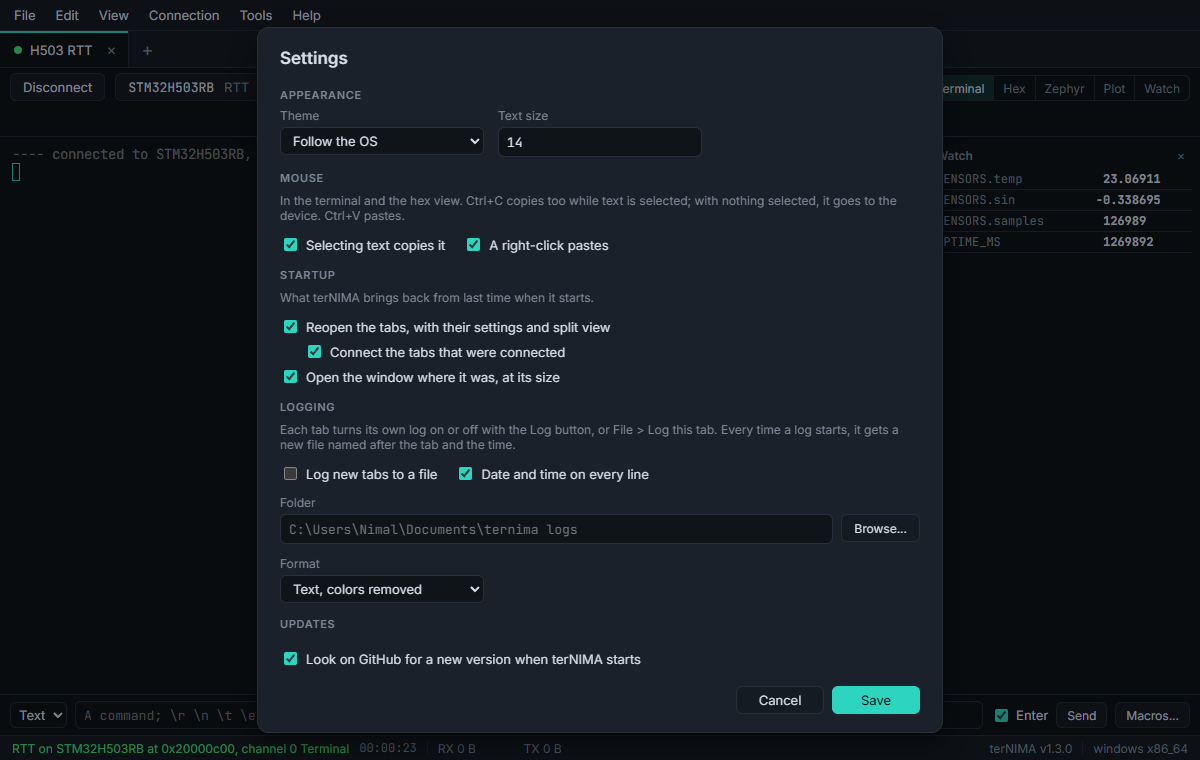
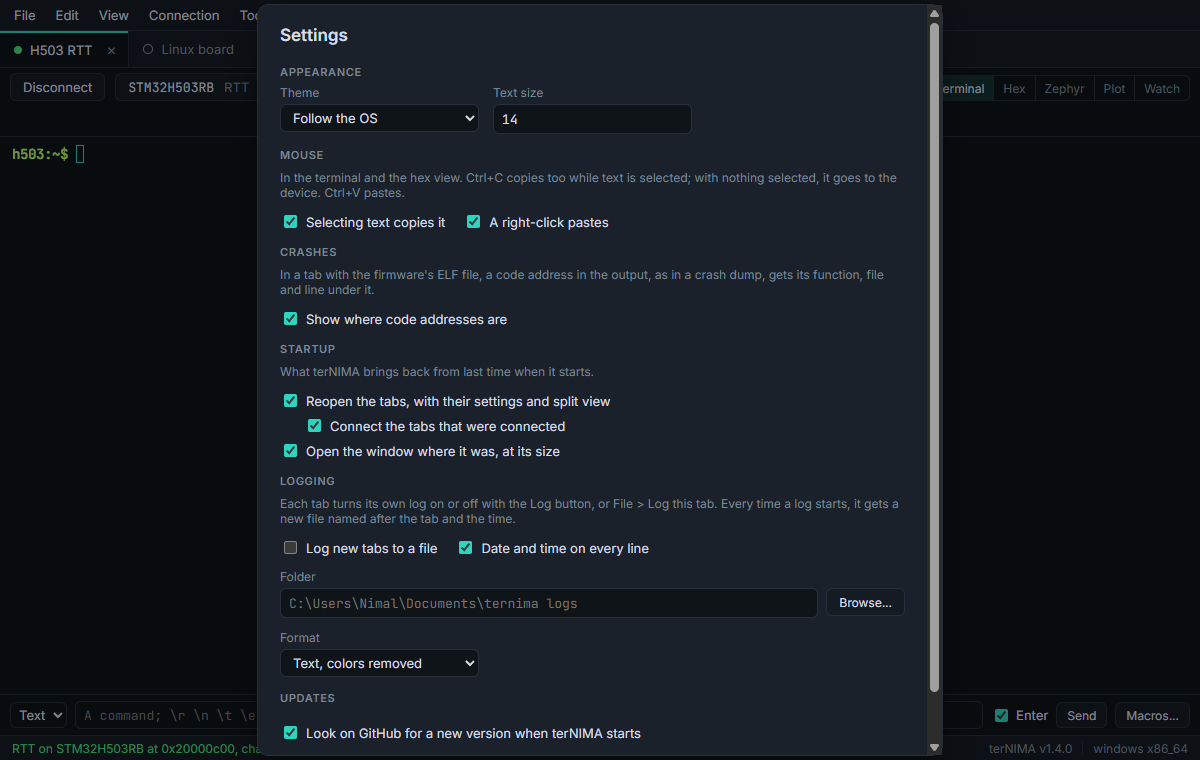
terNIMA 1.4.0 on the site: SSH and crash decoding
Both on its page, with a picture each and their own sections in its help, and
on the home page. The help's pictures of the + menu, the serial dialog and the
settings show what is new.

diff --git a/ternima/help/index.html b/ternima/help/index.html
@@ -3,14 +3,14 @@
 <head>
 <meta charset="utf-8">
 <meta name="viewport" content="width=device-width, initial-scale=1">
-<title>terNIMA help | Serial, RTT, SWO, Watch, Plot and Modbus, step by step</title>
-<meta name="description" content="How to use terNIMA: serial, RTT through a probe or a debugger&#x27;s server, SWO, TCP, the terminal, the hex view, Zephyr logs, live variables, the plot, Modbus, logs and recordings, with screenshots.">
+<title>terNIMA help | Serial, RTT, SWO, SSH, crash decoding, Watch, Plot and Modbus, step by step</title>
+<meta name="description" content="How to use terNIMA: serial, RTT through a probe or a debugger&#x27;s server, SWO, TCP, SSH, the terminal, the hex view, Zephyr logs, crash decoding, live variables, the plot, Modbus, logs and recordings, with screenshots.">
 <meta name="author" content="Nima Askari">
 <link rel="canonical" href="https://nimaltd.github.io/ternima/help/">
 <meta property="og:type" content="website">
 <meta property="og:url" content="https://nimaltd.github.io/ternima/help/">
 <meta property="og:title" content="terNIMA help | Serial, RTT, SWO, Watch, Plot and Modbus, step by step">
-<meta property="og:description" content="How to use terNIMA: serial, RTT through a probe or a debugger&#x27;s server, SWO, TCP, the terminal, the hex view, Zephyr logs, live variables, the plot, Modbus, logs and recordings, with screenshots.">
+<meta property="og:description" content="How to use terNIMA: serial, RTT through a probe or a debugger&#x27;s server, SWO, TCP, SSH, the terminal, the hex view, Zephyr logs, crash decoding, live variables, the plot, Modbus, logs and recordings, with screenshots.">
 <meta property="og:image" content="https://nimaltd.github.io/assets/ternima-logs.png">
 <meta name="twitter:card" content="summary_large_image">
 <meta name="theme-color" content="#071226">
@@ -92,9 +92,11 @@
         <li><a href="#server">RTT through a debugger's server</a></li>
         <li><a href="#swo">SWO through a debug probe</a></li>
         <li><a href="#tcp">TCP or Telnet</a></li>
+        <li><a href="#ssh">SSH</a></li>
         <li><a href="#terminal">The terminal</a></li>
         <li><a href="#hex">Hex view</a></li>
         <li><a href="#zephyr">Zephyr log</a></li>
+        <li><a href="#crash">Crash decoding</a></li>
         <li><a href="#watch">Watch: live variables</a></li>
         <li><a href="#plot">Plot</a></li>
         <li><a href="#modbus">Modbus</a></li>
@@ -115,8 +117,8 @@
       <section id="sessions">
         <h2>Opening a session</h2>
 
-<p>The <b>+</b> at the end of the tabs, or File &gt; New session, opens one of six kinds:</p>
-<figure><img src="/assets/help/ternima-new-session.png" width="1200" height="760" loading="lazy" decoding="async" alt="The menu under the + of the tab bar: Serial port, RTT through a debug probe, RTT through a debugger&#x27;s server, SWO through a debug probe, TCP or Telnet, and A recording, each with a line on what it is for"><figcaption>+ in the tab bar: the six kinds of session</figcaption></figure>
+<p>The <b>+</b> at the end of the tabs, or File &gt; New session, opens one of seven kinds:</p>
+<figure><img src="/assets/help/ternima-new-session.png" width="1200" height="760" loading="lazy" decoding="async" alt="The menu under the + of the tab bar: Serial port, RTT through a debug probe, RTT through a debugger&#x27;s server, SWO through a debug probe, TCP or Telnet, SSH, and A recording, each with a line on what it is for"><figcaption>+ in the tab bar: the six kinds of session</figcaption></figure>
 
 <ul>
 <li><b>Serial port</b>: a UART, a USB serial adapter, or a board's virtual COM port.</li>
@@ -124,6 +126,7 @@
 <li><b>RTT through a debugger's server</b>: while your IDE debugs, from J-Link's or OpenOCD's own RTT server.</li>
 <li><b>SWO through a debug probe</b>: ITM output on the chip's trace pin, such as printf.</li>
 <li><b>TCP or Telnet</b>: a device on the network, a serial bridge, or a shell.</li>
+<li><b>SSH</b>: a shell on a Linux board or a server, in a real terminal.</li>
 <li><b>A recording</b>: plays back what a tab recorded, with its timing.</li>
 </ul>
 <p>A tab you closed is under <b>Closed tabs</b> in the File menu, to open again as it was, connected if it was. A new serial session for a device seen before gets the settings its tab had, found by the device's USB serial number.</p>
@@ -134,6 +137,7 @@
 <figure><img src="/assets/help/ternima-serial-dialog.png" width="1200" height="760" loading="lazy" decoding="async" alt="The New serial session dialog: COM6, an ST-LINK&#x27;s virtual COM port, picked in the list, then 115200 baud, 8 data bits, no parity, 1 stop bit, no flow control, Enter sends CR, DTR and RTS on, and the tab&#x27;s name"><figcaption>A board's virtual COM port, and its settings</figcaption></figure>
 
 <p>Pick the port. The list shows each port's name, what it is and its USB ids, and follows ports being plugged in and out. Then its settings: any baud rate, 5 to 8 data bits, parity, stop bits and flow control, DTR and RTS, what <b>Enter</b> sends (CR, LF or CR LF), local echo for devices that do not echo, and whether LF alone starts a new line.</p>
+<p>The firmware's ELF file is optional. With it, the addresses of a crash get their function, file and line: see <a href="#crash">Crash decoding</a>.</p>
 <p>Unplug the board, and the tab waits for it; plug it back in, and it connects by itself, even on another COM number. DTR, RTS and Break in the toolbar, also in the Connection menu, work on the port as it runs, and Tools &gt; Send file sends a file, paced for the baud rate.</p>
       </section>
       <section id="rtt">
@@ -183,6 +187,25 @@
 
 <p>A TCP socket, plain bytes both ways, as from a serial to network bridge or a device's own socket; or a Telnet server, whose option talk terNIMA answers and keeps out of the terminal. Give the host and the port. The tab waits for the other end, and connects again when the connection is lost.</p>
       </section>
+      <section id="ssh">
+        <h2>SSH</h2>
+
+<figure><img src="/assets/help/ternima-ssh-dialog.png" width="1200" height="760" loading="lazy" decoding="async" alt="The New SSH session dialog: host board.local, port 22, user root, and logging in with a password asked each time and never saved"><figcaption>File &gt; New session &gt; SSH</figcaption></figure>
+
+<p>A shell on a Linux board or a server, in a real terminal: colors, <code>vim</code> and <code>htop</code> work, and the size follows the tab. Give the host, the port and the user, and how to log in:</p>
+<ul>
+<li><b>A key file</b>: OpenSSH's or PuTTY's. A passphrase on it is asked each time, and never saved.</li>
+<li><b>The SSH agent</b>: OpenSSH's, or Pageant on Windows.</li>
+<li><b>A password</b>: asked each time you connect, and never saved. A server that asks its own questions is answered the same way.</li>
+</ul>
+<figure><img src="/assets/help/ternima-ssh-trust.png" width="1200" height="760" loading="lazy" decoding="async" alt="The question Trust this server: the server has no key in known_hosts yet, with its key type and fingerprint, and the buttons Cancel and Trust and connect"><figcaption>The first time, the server's key is shown and asked about</figcaption></figure>
+
+<p>Check the fingerprint with <code>ssh-keygen -lf</code> on the server. A key you trust is kept in <code>known_hosts</code> in your <code>.ssh</code> folder, the file <code>ssh</code> itself uses. A key that changed is refused, with both fingerprints and the command that takes the old one out, for when you know why, as with a board flashed again.</p>
+<figure><img src="/assets/help/ternima-ssh.png" width="1200" height="760" loading="lazy" decoding="async" alt="An SSH tab with htop running in it, with its colors, its bars and its F key menu"><figcaption>htop in an SSH tab</figcaption></figure>
+
+<p>A connection that breaks connects again by itself, and <code>exit</code> ends the session. A login that fails is not tried again by itself, so that an account does not get locked. Log, record and replay, macros, sequences, find and split view work as on the other tabs. A recording keeps all that is typed in the shell, even a <code>sudo</code> password, but never the login itself.</p>
+<p>While a full screen program such as <code>vim</code> or <code>htop</code> runs, it gets the F keys, Alt with another key and Ctrl+V for itself, on every kind of tab. Back at the prompt, they are terNIMA's again.</p>
+      </section>
       <section id="terminal">
         <h2>The terminal</h2>
 
@@ -216,6 +239,22 @@
 <figure><img src="/assets/ternima-logs.png" width="1200" height="760" loading="lazy" decoding="async" alt="The Zephyr log view: log lines with their time, level and module, the warnings and errors highlighted, and a count of each level above them"><figcaption>Zephyr logs, by level and module</figcaption></figure>
 
 <p>View &gt; Zephyr log (<kbd>Ctrl+Shift+J</kbd>) lists every received line, with Zephyr's log lines read into time, level and module. The level chips and the module list show or hide lines, the search marks matches or keeps only them, Tools &gt; Highlight rules colors the lines that match, and bookmarks (<kbd>Ctrl+F2</kbd>, then <kbd>F2</kbd> and <kbd>Shift+F2</kbd>) mark lines to come back to.</p>
+      </section>
+      <section id="crash">
+        <h2>Crash decoding</h2>
+
+<p>When firmware crashes, it prints addresses. With the firmware's ELF file in the tab, terNIMA writes the function, the file and the line under each address that is in the code:</p>
+<figure><img src="/assets/help/ternima-crash.png" width="1200" height="760" loading="lazy" decoding="async" alt="A HardFault on an STM32H503RB over RTT: under the line with r14/lr, src/main.rs:237 in __cortex_m_rt_main, and under the faulting instruction address, src/asm.rs:76 in read_sensor"><figcaption>A HardFault: the LR and the PC decoded, the other values left alone</figcaption></figure>
+
+<p>It reads any line with an address written as <code>0x08001234</code>, as in a Zephyr fatal error, a HardFault handler's print or an ESP32 backtrace. On a line that speaks of the PC, the LR, a fault or a backtrace, <code>08001234</code> without the <code>0x</code> counts too. Only addresses inside the ELF file's functions count, so RAM addresses and other numbers stay as they are. A return address, as in the LR, gives the line of the call.</p>
+<ul>
+<li><b>Where the ELF file goes:</b> in the settings of a serial, RTT or SWO tab; for a TCP tab, in its Watch view. It needs no probe, and works on a plain serial port.</li>
+<li><b>Debug information:</b> a firmware built with it, as with <code>-g</code>, gives the file and the line. Without it you get the function, from the symbol table. A stripped file has neither, and the tab says so.</li>
+<li><b>The right file:</b> it must be the firmware that runs, or the addresses point somewhere else. A file built again is read again by itself.</li>
+<li><b>The Zephyr view</b> shows them at the end of the line. The hex view and log files keep only what the device sent.</li>
+<li><b>Settings &gt; Crashes</b> turns it off.</li>
+</ul>
+<figure><img src="/assets/help/ternima-crash-lines.png" width="1200" height="760" loading="lazy" decoding="async" alt="The Zephyr view of the same crash: the function, file and line at the end of the lines with the LR and the PC"><figcaption>The same crash in the Zephyr view</figcaption></figure>
       </section>
       <section id="watch">
         <h2>Watch: live variables</h2>
@@ -268,9 +307,9 @@
       <section id="settings">
         <h2>Settings and the keyboard</h2>
 
-<figure><img src="/assets/help/ternima-settings.png" width="1200" height="760" loading="lazy" decoding="async" alt="The Settings dialog: theme and text size, the mouse in the terminal, what terNIMA brings back at startup, logging with its folder and format, and the update check"><figcaption>File > Settings</figcaption></figure>
+<figure><img src="/assets/help/ternima-settings.png" width="1200" height="760" loading="lazy" decoding="async" alt="The Settings dialog: theme and text size, the mouse in the terminal, crash decoding, what terNIMA brings back at startup, logging with its folder and format, and the update check"><figcaption>File > Settings</figcaption></figure>
 
-<p>File &gt; Settings (<kbd>Ctrl+,</kbd>) has the theme and the text size, what the mouse does in the terminal, what terNIMA brings back when it starts, the log folder and format, and the update check.</p>
+<p>File &gt; Settings (<kbd>Ctrl+,</kbd>) has the theme and the text size, what the mouse does in the terminal, crash decoding, what terNIMA brings back when it starts, the log folder and format, and the update check.</p>
 <figure><img src="/assets/help/ternima-palette.png" width="1200" height="760" loading="lazy" decoding="async" alt="The command palette with watch typed: the Watch view and Watch beside the terminal"><figcaption>The command palette finds any command</figcaption></figure>
 
 <p>View &gt; Command palette (<kbd>Ctrl+Shift+P</kbd>) finds any command by part of its name. The keys:</p>
@@ -300,6 +339,8 @@
 <li><b>No RTT control block.</b> Is RTT on in the firmware, and has it started? Give the ELF file, or the control block's address. For firmware without RTT, turn <b>Read RTT</b> off and use Watch.</li>
 <li><b>A serial port is in use.</b> Another program has it open: close it, and terNIMA connects by itself.</li>
 <li><b>A variable is "not in the ELF".</b> The firmware was built anew: press <b>Reload</b>. Build it with debug information.</li>
+<li><b>A crash shows no function or line.</b> Is the ELF file in the tab the firmware that runs, and was it built with debug information? Is Settings &gt; Crashes on?</li>
+<li><b>SSH says a server's key changed.</b> After flashing a board this is expected: the message has the command that takes the old key out. Otherwise, find out why first.</li>
 <li><b>Anything else</b>: <a href="https://github.com/nimaltd/ternima/issues/new">ask, or report a bug on GitHub</a>.</li>
 </ul>
       </section>

diff --git a/ternima/index.html b/ternima/index.html
@@ -4,13 +4,13 @@
 <meta charset="utf-8">
 <meta name="viewport" content="width=device-width, initial-scale=1">
 <title>terNIMA | A serial, RTT, SWO and TCP terminal for embedded developers</title>
-<meta name="description" content="terNIMA: serial, RTT, SWO and TCP in one window on Windows, macOS and Linux, with Zephyr logs, live variables from the ELF, a plotter, a Modbus tester, and record and replay. Free and open source.">
+<meta name="description" content="terNIMA: serial, RTT, SWO, TCP and SSH in one window on Windows, macOS and Linux, with Zephyr logs, crash decoding and live variables from the ELF, a plotter, a Modbus tester, and record and replay. Free and open source.">
 <meta name="author" content="Nima Askari">
 <link rel="canonical" href="https://nimaltd.github.io/ternima/">
 <meta property="og:type" content="website">
 <meta property="og:url" content="https://nimaltd.github.io/ternima/">
 <meta property="og:title" content="terNIMA | A serial, RTT, SWO and TCP terminal for embedded developers">
-<meta property="og:description" content="terNIMA: serial, RTT, SWO and TCP in one window on Windows, macOS and Linux, with Zephyr logs, live variables from the ELF, a plotter, a Modbus tester, and record and replay. Free and open source.">
+<meta property="og:description" content="terNIMA: serial, RTT, SWO, TCP and SSH in one window on Windows, macOS and Linux, with Zephyr logs, crash decoding and live variables from the ELF, a plotter, a Modbus tester, and record and replay. Free and open source.">
 <meta property="og:image" content="https://nimaltd.github.io/assets/ternima-logs.png">
 <meta name="twitter:card" content="summary_large_image">
 <meta name="theme-color" content="#071226">
@@ -72,9 +72,9 @@
 <main id="main">
   <section class="hero wrap page-hero" id="top">
     <div class="hero-text">
-      <a class="news" href="https://github.com/nimaltd/ternima/blob/main/CHANGELOG.md"><b>New</b><span>terNIMA <span data-ternima="version">1.3.0</span>: what changed</span><svg class="ico"><use href="/assets/icons.svg?v=3#i-arrow"/></svg></a>
+      <a class="news" href="https://github.com/nimaltd/ternima/blob/main/CHANGELOG.md"><b>New</b><span>terNIMA <span data-ternima="version">1.4.0</span>: what changed</span><svg class="ico"><use href="/assets/icons.svg?v=3#i-arrow"/></svg></a>
       <h1>terNIMA, <span>a terminal for embedded developers.</span></h1>
-      <p class="lead">One window for everything your board says: serial and TCP, plus RTT and SWO straight from your debug probe, with no vendor software. Watch your firmware's variables change as it runs, plot them, and follow its Zephyr logs. Free and open source, on Windows, macOS and Linux.</p>
+      <p class="lead">One window for everything your board says: serial, TCP and SSH, plus RTT and SWO straight from your debug probe, with no vendor software. Watch your firmware's variables change as it runs, plot them, follow its Zephyr logs, and see the file and line of a crash. Free and open source, on Windows, macOS and Linux.</p>
       <div class="ctas">
         <a class="btn amber" href="#download"><svg class="ico"><use href="/assets/icons.svg?v=3#i-download"/></svg>Download</a>
         <a class="btn ghost" href="/ternima/help/"><svg class="ico"><use href="/assets/icons.svg?v=3#i-book"/></svg>Help</a>
@@ -89,6 +89,8 @@
       <figure class="shot" id="shots" aria-roledescription="carousel" aria-label="terNIMA, feature by feature">
         <div class="slides">
           <img class="slide on" src="/assets/ternima-logs.png" width="1200" height="760" loading="lazy" data-caption="Zephyr logs, by level and module, with highlights" alt="terNIMA's Lines view: Zephyr log lines, each with its time, level and module, the warnings and errors highlighted, and a count of each level above them">
+          <img class="slide" src="/assets/ternima-crash.png" width="1200" height="760" loading="lazy" data-caption="A real HardFault, with the function, file and line under each address" alt="An RTT tab on an STM32H503RB after a HardFault: under the lines with the LR and the PC, the function, file and line of each address">
+          <img class="slide" src="/assets/ternima-ssh.png" width="1200" height="760" loading="lazy" data-caption="SSH in a real terminal: htop on a Linux machine" alt="An SSH tab with htop running in it, with its colors, its bars and its F key menu">
           <img class="slide" src="/assets/ternima-rtt.png" width="1200" height="760" loading="lazy" data-caption="RTT through an ST-LINK, with no vendor software" alt="An RTT tab on an STM32H503RB through an ST-LINK: the firmware's shell, with help, colors and uptime typed into it">
           <img class="slide" src="/assets/ternima-watch.png" width="1200" height="760" loading="lazy" data-caption="Live variables beside the RTT shell, read as the chip runs" alt="An RTT tab on an STM32H503RB: the firmware's shell at the left, and at the right its variables, a temperature, a sine, a sample count and the uptime, read live through the probe">
           <img class="slide" src="/assets/ternima-sequences.png" width="1200" height="760" loading="lazy" data-caption="Macros, and sequences of them sent again and again" alt="The Macros dialog: three macros, Reboot, Version and Temperature, and a sequence, Soak test, that sends Temperature then Version every 2 seconds until it is stopped, with their buttons under the terminal">
@@ -107,10 +109,10 @@
 
       <div class="get" id="download">
         <div class="get-head">
-          <h3>Download <span data-ternima="version">1.3.0</span></h3>
+          <h3>Download <span data-ternima="version">1.4.0</span></h3>
           <span class="stars" data-repo="ternima"><svg class="ico"><use href="/assets/icons.svg?v=3#i-star"/></svg><span></span></span>
         </div>
-        <p>Released <time data-ternima="date" datetime="2026-10-31">31 October 2026</time>. Free, under the Apache License 2.0.</p>
+        <p>Released <time data-ternima="date" datetime="2026-11-01">1 November 2026</time>. Free, under the Apache License 2.0.</p>
         <ul class="os">
           <li data-os="windows">
             <div><b>Windows</b><span>10 and 11, x64</span></div>
@@ -154,7 +156,9 @@
     <div class="shead"><span class="n">02</span><h2>What it does</h2></div>
     <ul class="features" aria-label="What terNIMA does">
       <li><svg class="ico"><use href="/assets/icons.svg?v=3#i-cpu"/></svg><div><b>Serial, RTT, SWO and TCP</b><span>Every serial option, RTT through CMSIS-DAP, J-Link and ST-Link probes with no vendor software, SWO, and TCP or Telnet.</span></div></li>
+      <li><svg class="ico"><use href="/assets/icons.svg?v=3#i-lock"/></svg><div><b>SSH</b><span>A shell on a Linux board or a server in a real terminal, with vim and htop: a key file, the SSH agent or a password that is never saved, and the server's key checked.</span></div></li>
       <li><svg class="ico"><use href="/assets/icons.svg?v=3#i-terminal"/></svg><div><b>Zephyr shell and logs</b><span>A full VT100 terminal with 24-bit color, and logs you filter by level and module, search and bookmark.</span></div></li>
+      <li><svg class="ico"><use href="/assets/icons.svg?v=3#i-binary"/></svg><div><b>Crash decoding</b><span>Under a code address in the output, as in a Zephyr fatal error, a HardFault or an ESP32 backtrace, its function, file and line from the ELF, on plain serial too.</span></div></li>
       <li><svg class="ico"><use href="/assets/icons.svg?v=3#i-gauge"/></svg><div><b>Live variables</b><span>The firmware's globals, struct members and array elements by name from its ELF, read as the chip runs, beside the terminal or plotted.</span></div></li>
       <li><svg class="ico"><use href="/assets/icons.svg?v=3#i-activity"/></svg><div><b>A live plotter</b><span>Time, XY, histogram and FFT charts with a scope trigger and a right axis for values far apart, Arduino Serial Plotter format included.</span></div></li>
       <li><svg class="ico"><use href="/assets/icons.svg?v=3#i-network"/></svg><div><b>Modbus, and its traffic</b><span>RTU and ASCII as a master that polls and plots, or a slave that answers, and every frame on the bus, each response under its request.</span></div></li>

diff --git a/index.html b/index.html
@@ -104,8 +104,8 @@
     <div class="product-grid">
       <a class="product" href="/ternima/">
         <span class="product-icon"><svg class="ico"><use href="/assets/icons.svg?v=3#i-terminal"/></svg></span>
-        <h3>terNIMA <span class="tag"><span data-ternima="version">1.3.0</span></span></h3>
-        <p>A terminal for embedded developers: serial, RTT, SWO and TCP in one window, Zephyr logs, live variables, a plotter and a Modbus tester, on Windows, macOS and Linux.</p>
+        <h3>terNIMA <span class="tag"><span data-ternima="version">1.4.0</span></span></h3>
+        <p>A terminal for embedded developers: serial, RTT, SWO, TCP and SSH in one window, Zephyr logs, crash decoding, live variables, a plotter and a Modbus tester, on Windows, macOS and Linux.</p>
         <span class="next-go">See terNIMA <svg class="ico"><use href="/assets/icons.svg?v=3#i-arrow"/></svg></span>
       </a>
       <a class="product" href="/lib-installer/">
